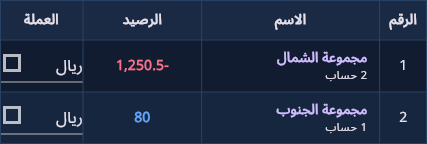
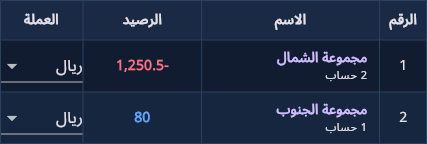
Record signed Android upgrade and visual review evidence for batch 01

Changed region(s): [[0.0, 0.7222, 0.0609, 0.8611], [0.0, 0.3611, 0.0609, 0.5]]

diff --git a/qa/groups_lab/test/lab_test.dart b/qa/groups_lab/test/lab_test.dart
@@ -60,6 +60,9 @@ void main() {
       addTearDown(()async{c!.dispose();await db.close();await dir.delete(recursive:true);});
       final loader=FontLoader('LabArabic')..addFont(rootBundle.load('assets/NotoSansArabic-Regular.ttf'));
       await tester.runAsync(loader.load);
+      final icons = FontLoader('MaterialIcons')
+        ..addFont(rootBundle.load('fonts/MaterialIcons-Regular.otf'));
+      await tester.runAsync(icons.load);
       final archive=c!.restoredGroups!;
       if(!restored)c.restoredGroups=null;
       Future<List<Object?>> sqlRows() async{

diff --git a/qa/REVIEW_HANDOFF.md b/qa/REVIEW_HANDOFF.md
@@ -1,0 +1,70 @@
+# تسليم الدفعة 01 للمراجعة — جدول مجموعات الحسابات والأرصدة
+
+**الفرع** `audit/parity-account-groups-01`  
+**مصدر الـAPK** `9b8e78a47cfd2ab5caf9fb64ccf542ede82265d7`، انطلاقًا من `2e4396b347b21a1378e82e8124b2ef461b3ad02f`.  
+**النطاق** واجهة Flutter الأصلية، فحص حفظ SQLite، ومختبر مستقل للمقارنة. راجع [مصفوفة السيناريوهات](PARITY_MATRIX.csv) و[الفروقات](PARITY_GAPS.md) و[بروتوكول التسليم للهاتف](EDITOR_PHONE_UPDATE_QA_AR.md).
+
+## أصل إخفاقات الاختبار
+
+| الملف والحالة | أول فشل في السجل | السبب والتحقق |
+|---|---|---|
+| `offline_posting_test.dart` — catalog, imported accounts, message settings and purchases survive a cold reopen | `Bad state: قاعدة البيانات غير جاهزة.` عند `ErpController.saveAccountRows:1320` | فشل فتح SQLite قبل الحفظ. |
+| الملف نفسه — stock, vouchers and exchanges survive closing and reopening SQLite | `قاعدة البيانات غير جاهزة.` عند `ErpController.receiveStock:1926` | فشل فتح SQLite قبل ترحيل المخزون. |
+| `dev_update_test.dart` — verified downloads and rejected or interrupted transfers preserve SQLite on reopen | `Failed to load dynamic library 'libsqlite3.so'` | يكشف محمّل Dart FFI السبب في بيئة Linux. كانت المكتبة متاحة بالاسم `libsqlite3.so.0` فقط. |
+
+انقطع التشغيل التاريخي قبل اكتماله. يتيح مشغل الاختبار اسم المكتبة الذي يحتاجه FFI في مجلد مؤقت لعملية الاختبار وحدها. نجحت ملفات الاختبارات المتأثرة كاملة (7 حالات) بنفس شروط التحقق فيها، ثم نجحت المجموعة كاملة (270 حالة). [السجل قبل المعالجة](test_logs/flutter-test.log) · [اختبارات SQLite والتحديث](test_logs/ffi-recheck.log) · [كامل التشغيل](test_logs/full-final.log).
+
+## التقنية والأدلة
+
+- **التحليل.** شُغّل Flutter 3.29.3 محليًا. تحليل التطبيق أعاد 0 أخطاء و0 تحذيرات و31 ملاحظة معلوماتية. منها 27 لإحاطة تعليمات التحكم بأقواس و4 لاقتراح `const`. أبقيناها ظاهرة لتجنب تعديلات شكلية خارج الدفعة. تحليل المختبر سليم. [تحليل التطبيق](test_logs/analyze-final.log) · [تحليل المختبر](test_logs/lab-analyze-final.log).
+- **الأرصدة.** أُضيف عرض لكل عملة في المجموعات المستعادة، ووُحِّد عرض السالب وألوانه في الواجهتين المحلية والمستعادة. اختبرنا أرصدة المدين والدائن في الوضعين. في العينة أُبقي `1,250.5-` ريال و`25` دولار منفصلين عند اختيار «الكل». لا يوجد تعديل على مخطط قاعدة بيانات التطبيق. قورنت الصفوف المالية المخزنة، وفُحصت الجداول في قاعدة الاختبار عبر فتحين، وكانت نتيجة `PRAGMA integrity_check` هي `ok`. [اختبارات المختبر الخمسة](test_logs/lab-final.log) · [اختبارات المظهر قبل المعالجة](test_logs/style-before.log) · [بعدها](test_logs/style-after.log).
+- **المقارنة.** استُخرج جدول React من `src/Prototype.tsx` مع CSS المرجعي. استُخدم مكوّن Flutter الحقيقي وعينة واحدة، واتجاه RTL، وخط Noto Sans Arabic، وإطار 427×952 بكثافة 1. حمّل الاختبار خط أيقونات Flutter أيضًا. قُصّت الصور على حدود الجدول نفسه. ارتفاع React هو 151 بكسل وFlutter هو 144. تغير 17,135 بكسل في الفاتح و16,328 في الداكن وفق عتبة 16. تختلف عرض الأعمدة وحدود المرشّح وألوان أسماء المجموعات. [الفاتح](screenshots/compare-light.png) · [الداكن](screenshots/compare-dark.png) · [الفروق المحسوبة](test_logs/visual-diff.log).
+- **Hybrid.** النسخة المعزولة تحزم الخط محليًا وتستخدم رسائل مقيدة لعرض الصفوف وفتح المجموعة وتغيير العملة. في Chromium ظهرت صفوف المرجع دون طلبات HTTP(S) أو أخطاء JavaScript. اختبرنا رفض أوامر الجسر غير المدعومة وسلامة SQLite. ما زال قياس زمن التشغيل والذاكرة والتمرير وإمكانية الوصول لـWebView على الجهاز معلقًا؛ يظل Flutter Native هو المسار الحالي. [سجل المتصفح](test_logs/browser-final.log).
+- **الجرد.** جُمعت 28,681 حالة ظهور في 22,814 مدخلًا آليًا بفئة وسياق وملف وأرقام أسطر. السيناريوهات التسعة المراجعة مدرجة في مصفوفة مستقلة. لا تمثّل هذه الأعداد نسبة إنجاز. [الجرد](PARITY_INVENTORY.csv) · [ملخص التوليد](test_logs/inventory.log).
+- **الملفات المعدلة.** التطبيق في `flutter_app/lib/screens/dashboard_screen.dart` و`flutter_app/lib/services/web_backup.dart` وقفل الاعتماديات `flutter_app/pubspec.lock`. اختبارات الواجهة في `flutter_app/test/{home_balance_panel_test,parity_balance_style_test}.dart`. ملفات المختبر في `qa/groups_lab/`؛ توليد الجرد وتشغيل FFI في `qa/tools/`، والأدلة في `qa/test_logs/` و`qa/screenshots/`. [الفروق الكاملة مقارنة بالأساس](https://github.com/helalalfqih-sketch/nasqo-pro-mobile/compare/2e4396b347b21a1378e82e8124b2ef461b3ad02f...audit/parity-account-groups-01).
+
+## إعادة التشغيل
+
+من جذر نسخة اختبار للمستودع مع Flutter وSQLite وNode واعتماديات الواجهة وChromium:
+
+```sh
+(cd flutter_app && flutter pub get --enforce-lockfile && ../qa/tools/test-linux.sh)
+(cd flutter_app && flutter analyze --no-pub)
+node qa/groups_lab/build-table.mjs
+node qa/groups_lab/build-table.mjs --reference
+node qa/groups_lab/browser-check.mjs
+(cd qa/groups_lab && flutter pub get --enforce-lockfile && ../tools/test-linux.sh --dart-define=CAPTURE=true)
+node qa/groups_lab/compare.mjs
+node qa/tools/inventory.mjs
+```
+
+لإعادة فحص الإخفاق الأول وحده بعد إعداد المكتبة، شغّل من داخل `flutter_app/` الأمر `../qa/tools/test-linux.sh test/offline_posting_test.dart test/dev_update_test.dart`. استُخدمت قاعدة مؤقتة وبيانات اصطناعية. لا تتطلب أي خطوة قاعدة الإنتاج أو نسخة هاتف فعلية. يقبل برنامج المتصفح `CHROME_BIN` عند استخدام نسخة Chromium محددة.
+
+## اختبار هلال بعد الموافقة على النشر
+
+1. سجّل رقم النسخة الحالية وقيمة رصيد معروف بعملته، ثم افتح «تحديث التطبيق». تحقق من رقم المرشح الموضح أدناه.
+2. وافق على التحديث فوق النسخة المثبتة، وافتح «مجموعات الحسابات والأرصدة». تحقق من استمرار الحساب والرصيد.
+3. قارن ظهور علامة السالب بعد المبلغ ولون الدائن والمدين في المظهرين الفاتح والداكن.
+4. اختر عملة ثم «الكل» لمجموعة بها أكثر من عملة. يجب أن يبقى كل رصيد موسومًا بعملته.
+5. افتح كشف حساب ثم ارجع. راقب مرشح العملة وموضع التمرير وسجّل أي اختلاف.
+6. أغلق التطبيق وافتحه في وضع الطيران وراجع الرصيد. أرسل رقم الإصدار مع «مقبول» أو «مقبول مع ملاحظات» أو «مرفوض»، ووصف أي فرق. يبقى اعتماد الشاشة معلقًا حتى ردك.
+
+
+## مرفق Android للمراجعة
+
+| الحقل | نتيجة فحص ملف APK المنزَّل من Actions |
+|---|---|
+| الإصدار | `1.0.18 (10014)` |
+| التطبيق | `com.indexesstore.nasqo_qa` |
+| الإصدار المنشور الذي تحققنا من ملفه | `1.0.18 (10013)` |
+| حجم المرشح | 81,857,767 بايت |
[2 lines of base64/hex data omitted]
+
+[ملف البناء المضغوط في GitHub Actions](https://github.com/helalalfqih-sketch/nasqo-pro-mobile/actions/runs/44929394951/artifacts/14717226371) · [تشغيل التوقيع](https://github.com/helalalfqih-sketch/nasqo-pro-mobile/actions/runs/44929394951) · [سجل الهوية والتوقيع والبصمة](test_logs/apk-verification.log). مدة الاحتفاظ المحددة في سير العمل 14 يومًا. تحققنا من توقيع كل ملف باستخدام apksigner، وطابقنا بصمة ملف المرشح مع سجل البناء وبصمة ملف الإصدار المنشور مع البيان العام. بُني التطبيق في Actions على Flutter 3.29.0. الإصدار مرفق مراجعة؛ يحتاج نشره إلى موافقة منفصلة.
+
+**نتيجة اختبار Android.** نجح التشغيل `44930114626` على نفس تعديل بناء الحزمة. ثُبّت الإصدار `10004` على محاكي Android API 30 بقاعدة جديدة، وأضيفت وحدة مخزون ثم أعيد فتح التطبيق. بعد تثبيت المرشح `10014` فوقه في وضع الطيران بقيت الكمية `81` (ابتدأت عند `80`). لم تُختبر الترقية المباشرة من `10013`، ولا الجهاز الشخصي أو بيانات الإنتاج. اختُبر تطابق توقيع الإصدار المنشور `10013` والمرشح من ملفيهما.
+
+[سجل ترقية المحاكي](test_logs/android-upgrade.log) · [تشغيل اختبار Android](https://github.com/helalalfqih-sketch/nasqo-pro-mobile/actions/runs/44930114626) · [صورتا المخزون قبل الترقية وبعدها](https://github.com/helalalfqih-sketch/nasqo-pro-mobile/actions/runs/44930114626/artifacts/14717412591).
+
+**القرار المطلوب من المراجع.** مراجعة الفرق البصري المتبقي وسلوك «الكل»، ثم تحديد ما إذا كان المرشح يصلح للنشر التجريبي أو يحتاج دفعة تصحيح. القبول النهائي لدى هلال بعد اختبار زر التحديث على هاتفه.

diff --git a/qa/PARITY_GAPS.md b/qa/PARITY_GAPS.md
@@ -1,0 +1,13 @@
+# الدفعة 01 — فروقات شاشة مجموعات الحسابات والأرصدة
+
+| العنصر | نتيجة الفحص | ما يتبقى للاعتماد |
+|---|---|---|
+| الأرصدة المحلية والمستعادة | في اختبارات Flutter يظهر الدائن `1,250.5-` والمدين `80`. لون الدائن في الفاتح `#9f1239` والداكن `#fb7185`، ولون المدين `#0b5ca8` و`#60a5fa`، كما في CSS المحسوب للمرجع. | ملاحظة وضوح الأرقام على هاتف المستخدم. |
+| كل العملات | المرجع يعرض في عينة الاختبار مجموعًا اسميًا مقداره `1,225.5-` عند جمع رصيد سالب بالريال مع 25 دولارًا. يعرض Flutter سطرًا لكل عملة مع اسمها ويستعمل حساب العملة الموجودة فعليًا. نجحت مقارنة صفوف SQLite قبل اختيار المرشح وبعده. | مراجعة استثناء العرض المحاسبي وقبوله من المستخدم. |
+| الجدول | عند عرض 427 وDPR 1، ارتفاع React هو 151 بكسل وFlutter هو 144. تختلف عروض عمود العملة والاسم، ومحاذاة رأس الجدول، ولون اسم المجموعة، وسهم وحدود محدد العملة. | ضبط هندسة الجدول ومقارنة لقطة كاملة على Android وتكبير خط الجهاز. |
+| التصفح | اختبارات قائمة المجموعات ومسارات Flutter وسلامة أوامر الجسر موجودة. | قياس العودة إلى الموضع نفسه بعد فتح كشف الحساب، خصوصًا في الوضع المحلي، وفحص TalkBack ولوحة المفاتيح. |
+| Hybrid | حُزّم الخط وواجهة React في تجربة مستقلة. نجحت قراءة SQLite بعد فتحين، وعزل أوامر العرض، واختبار Chromium دون شبكة. | قياس بدء العرض، وزمن الإطارات والذاكرة على الجهاز نفسه، والتشغيل البارد للمختبر بوضع الطيران. القرار المعماري معلّق. |
+| الشاشة الرئيسية | تدخل حالات السحب والحفظ والمفضلة في المصفوفة منفصلة عن شاشة الأرصدة. | السحب والحفظ مفقودان، والمفضلة تحتاج مراجعة مستقلة. |
+
+[الفاتح](screenshots/compare-light.png) · [الداكن](screenshots/compare-dark.png) · [سجل فروقات البكسلات](test_logs/visual-diff.log). تقارن الصور المكوّن نفسه في RTL ببيانات اختبار واحدة. يعني اللون الأحمر في اللوحة الثالثة أن أكبر فرق في قناة لونية تجاوز 16 من 255. احتُسبت المساحة الإضافية بشفافية ومن دون تحجيم. لا يقيس هذا العدد نسبة اكتمال المشروع.
+
